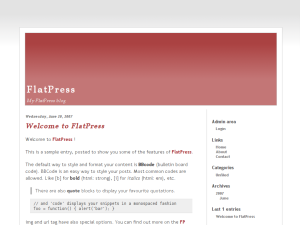
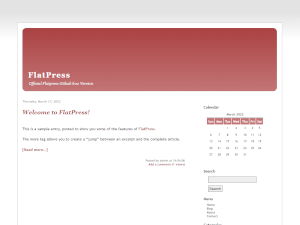
CSS of the Leggero style had some glitches on mobile devices. Fixed by laborix, thank you very much :)

Changed region(s): [[0.06, 0.1244, 0.93, 1.0], [0.09, 0.84, 0.6, 0.9333], [0.09, 0.9644, 0.63, 1.0]]

diff --git a/fp-interface/themes/leggero/leggero/res/style.css b/fp-interface/themes/leggero/leggero/res/style.css
@@ -10,7 +10,7 @@ Author: NoWhereMan & drudo
 Version: 0.2
 Module: style.css
 
-last change: 2020-08-08
+last change: 2022-03-12
 
 */
 
@@ -39,23 +39,24 @@ body { margin: 80px 0 0 0 }
 /* 800er Bildschirme zum Beispiel iPad Hochformat */
 @media only screen and (max-width: 768px) { 
 
-#outer-container {
-  margin: 0;
-  padding: 0;
-  width: 100%;
-}
-
 #main {
   width: 100%;
-  padding: 0.5em;
-  /* border: 1px solid yellow; */
+  margin: 0;
+  padding: 1em 0.5em 0 0.5em;
+}
+
+#main ul.entry-footer {
+  margin: 0;
+  padding: 2em 0 1em 0 ;
+  width: 98%;
+  text-align: right;
 }
 
 #column {
   width: 100%;
   font-size: 80%;
-  margin-bottom: 2em;
-  padding: 0.5em;
+  margin: 0;
+  padding: 1em 0.5em 2em 0.5em;
   /* border: 1px solid red; */
   overflow: auto;   /* shit, bei 84% Bildbreite wird es eng! */
 }
@@ -65,10 +66,17 @@ body { margin: 80px 0 0 0 }
 /* Kleinbildschirme */
 @media only screen and (max-width: 480px) { 
 
+body {
+  margin: 1px 0 0 0;
+  padding: 0;
+  width: 100%;
+}
+
 #body-container {
   margin: 0;
-  padding: 0;
-  width: 98%;
+  padding: 0.5em;
+  width: 96%;
+  border: none;
 }
 
 #head {
@@ -77,16 +85,37 @@ body { margin: 80px 0 0 0 }
   width: 100%;
 }
 
-#outer-container {
+h1 {
   margin: 0;
-  padding: 0;
-  width: 100%;
+  padding: 0.5em 0 0 0.2em;
+}
+
+.subtitle {
+  margin: 0;
+  padding: 0.5em 0.5em 1em 0.5em;
 }
 
 #main {
   margin: 0;
-  padding: 0;
+  padding: 1em 0.4em 0 0;
   width: 100%;
+}
+
+.entry {
+  margin: 0;
+  padding: 0 0.5em 1em 0.5em 
+}
+
+#main ul.entry-footer {
+  margin: 0;
+  padding: 2em 0 1em 0;
+  width: 98%;
+  text-align: right;
+}
+
+#main pre {
+  margin: 0;
+  padding: 0 0 0 1.5em;
 }
 
 #column {

diff --git a/fp-interface/themes/leggero/leggero/res/column.css b/fp-interface/themes/leggero/leggero/res/column.css
@@ -10,7 +10,7 @@ Author: NoWhereMan & drudo
 Version: 0.2
 Module: style.css
 
-last change: 2020-08-08
+last change: 2022-03-17
 
 */
 
@@ -19,17 +19,13 @@ last change: 2020-08-08
 /* ===== COLUMN ===== */
 #column {
 	float: right;
-	/* width: 195px !important;
-	width: 180px; */
-    width: 28%;
+  width: 28%;
 	font-size: 80% !important;
 	font-size: 75%;
 	height:1%;
-    margin: 1em;
-    padding: 0.7em;
-	/* margin-bottom: 5px;
-	padding: 10px; */
-	/* border-left: solid 1px #ccc */
+  margin: 1em;
+  padding: 0.7em;
+	/* border-left: solid 1px #ccc; */
 }
 
 #column h4 {
@@ -54,3 +50,42 @@ last change: 2020-08-08
 #column fieldset { margin: 0 5px 0 5px }
 
 #column legend { font-size: 100% }
+
+/* =======================================================
+The following definitions take care of the Calendar plugin
+======================================================= */
+
+.calendar {
+  margin: 0;
+  padding: 0 0 2em 0;
+  font-size: 80%;
+}
+
+.calendar-month {
+  margin: 0;
+  padding: 0.4em 0 0.4em 0;  
+  color: #333;
+  background-color: transparent;
+  font-weight: bold;
+  border-bottom: 0.1em solid #333;
+}
+
+.calendar th {
+  padding: 0.4em; 
+  color: #fff;
+  background-color: #c37576;
+}
+
+.calendar td {
+  padding: 0.4em;
+  text-align: center;
+}
+
+.current-day {
+  color: #333;
+  background-color: transparent;
+  border: 2px solid #c37576;
+}
+/* =======================================================
+End of Calendar plugin
+======================================================= */

diff --git a/fp-interface/themes/leggero/leggero/res/common.css b/fp-interface/themes/leggero/leggero/res/common.css
@@ -10,7 +10,7 @@ Author: NoWhereMan & drudo
 Version: 0.2
 Module: common.css
 
-last change: 2020-08-08
+last change: 2022-03-13
 
 */
 
@@ -45,6 +45,29 @@ img {
   height: auto;
 }
 
+/*
+ * Caution: The .center definition is used both by the Quickgallery and the ExtendedImg plugin!
+ */
+ 
+.center {
+  display: block;
+  margin-left: auto;
+  margin-right: auto
+}
+
+/* Plugin: QuickGallery */
+
+.img-gallery img {
+  display: inline;
+  margin: 0.4em;
+}
+
+/* Plugin: QuickGallery */
+
+.img-gallery img .center {
+  display: inline;
+}
+
 blockquote {
 	width: 90%;
 	color: #666;
@@ -65,8 +88,8 @@ pre {
 
 	overflow: auto;
 	width: 90%;
-	margin: 1em 1em;
-	padding: 5px 10px;
+	margin: 1em 1em 2em 1em;
+	padding: 1em 0.5em;
 	
 	/* fix overflow in IE */
 	min-height: 40px; 
@@ -223,7 +246,7 @@ h4 { font-size: 1.2em; }
 
 #main p { line-height: 1.5em; margin-top: 1.2em; }
 
-#main img { margin: 0.5em }
+/* #main img { margin: 0.5em } */
 
 #main img.emoticon { margin: 0; padding: 0 }
 

diff --git a/fp-interface/themes/leggero/leggero/res/admin.css b/fp-interface/themes/leggero/leggero/res/admin.css
@@ -9,6 +9,9 @@ Name: Leggero
 Author: NoWhereMan & drudo
 Version: 0.1
 Module: admin.css
+
+last change: 2022-02-19
+
 */
 
 @import url(common.css);
@@ -239,6 +242,10 @@ input.maxsize, select.maxsize { width: 100% }
 	height: 11em;
 }
 
+
+#plugin-table td {
+  padding: 1em .6em;
+}
 
 .admin-entry-commentlist td ,
 .admin-widgets-blockparser td ,

diff --git a/fp-interface/themes/leggero/leggero/style.conf.php b/fp-interface/themes/leggero/leggero/style.conf.php
@@ -2,16 +2,16 @@
 /*
  * Style Name: Leggero
  * Style URI: http://www.flatpress.org/
- * Description: The default FlatPress theme which brings a breath of fresh mint air.
- * Version: 0.705
- * Author: NoWhereMan and Drudo
- * Author URI: http://www.flatpress.org/
+ * Description: The default FlatPress theme which brings a breath of fresh mint air. Responsive and a great start for own themes!
+ * Version: 1.2
+ * Author: NoWhereMan and Drudo, optimised by Laborix
+ * Author URI: https://www.flatpress.org/
  */
 $style ['name'] = 'leggero';
 $style ['author'] = 'NoWhereMan';
-$style ['www'] = 'http://www.flatpress.org/';
+$style ['www'] = 'https://www.flatpress.org/';
 
-$style ['version'] = 0.705;
+$style ['version'] = 1.2;
 
 $style ['style_def'] = 'style.css';
 $style ['style_admin'] = 'admin.css';
